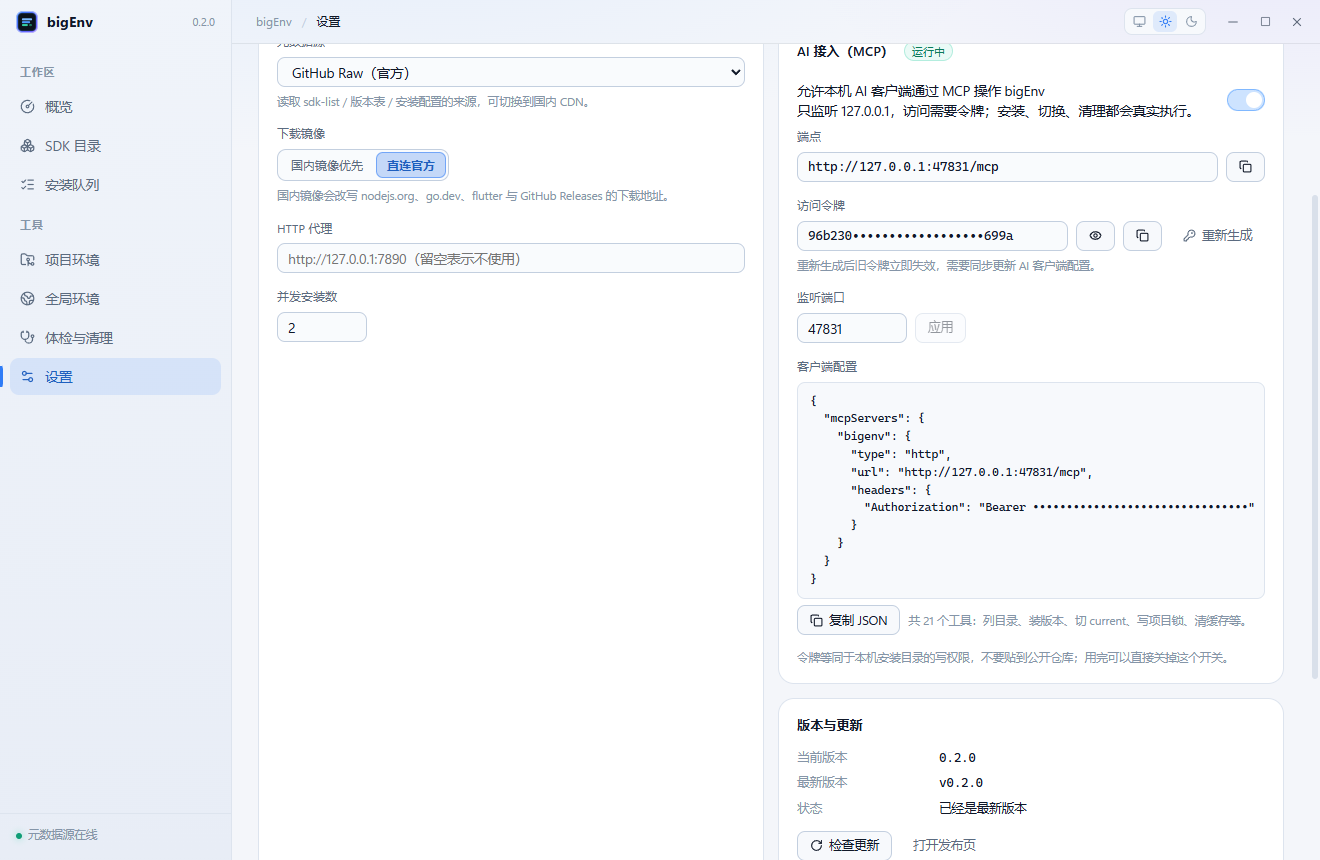
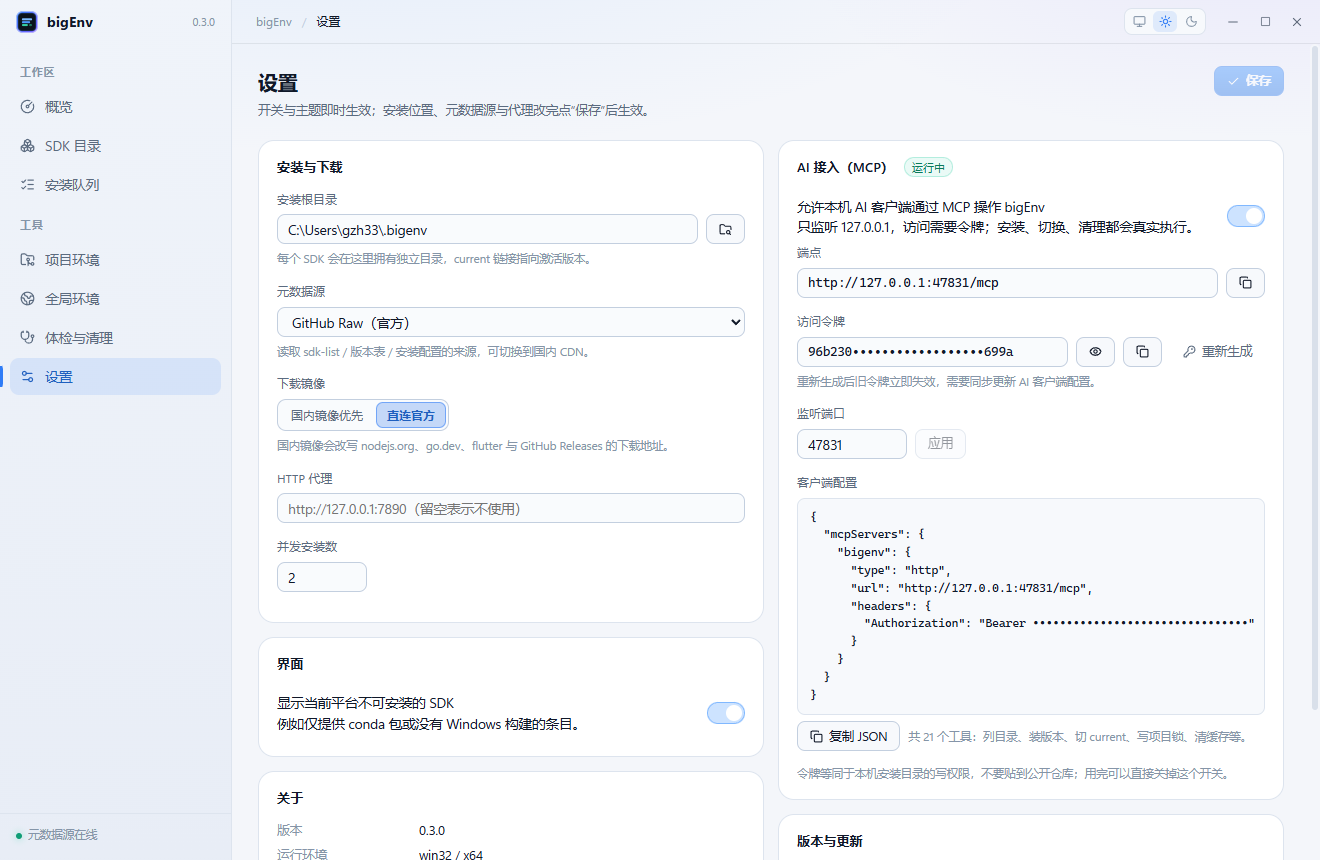
style: 设置页改为两列独立堆叠，卡片按内容高度排布，消除左侧空白

diff --git a/src/renderer/pages/Settings.tsx b/src/renderer/pages/Settings.tsx
@@ -110,10 +110,11 @@ export function Settings(): JSX.Element {
         </div>
       </div>
 
-      <div className="grid c2">
-        <div className="card">
-          <div className="card-head">
-            <h2>安装与下载</h2>
+      <div className="settings-grid">
+        <div className="settings-col">
+          <div className="card">
+            <div className="card-head">
+              <h2>安装与下载</h2>
           </div>
           <div className="field">
             <label>安装根目录</label>
@@ -172,10 +173,9 @@ export function Settings(): JSX.Element {
               onChange={(event) => patch({ concurrency: Number(event.target.value) || 1 })}
             />
           </div>
-        </div>
+          </div>
 
-        <div>
-          <div className="card" style={{ marginBottom: 14 }}>
+          <div className="card">
             <div className="card-head">
               <h2>界面</h2>
             </div>
@@ -194,7 +194,31 @@ export function Settings(): JSX.Element {
             </div>
           </div>
 
-          <div className="card" style={{ marginBottom: 14 }}>
+          <div className="card">
+            <div className="card-head">
+              <h2>关于</h2>
+            </div>
+            <dl className="kv">
+              <dt>版本</dt>
+              <dd>{bridge.runtime.version}</dd>
+              <dt>运行环境</dt>
+              <dd>
+                {bridge.runtime.platform} / {bridge.runtime.arch}
+              </dd>
+              <dt>Electron</dt>
+              <dd>{bridge.runtime.electron || '—'}</dd>
+              <dt>数据目录</dt>
+              <dd className="mono" style={{ fontSize: 11.5 }}>{bridge.runtime.dataRoot || '—'}</dd>
+            </dl>
+            <div className="divider" />
+            <div className="hint-text">
+              版本元数据来自 vsources（gvcgo/vsources）；安装布局用 <code>&lt;sdk&gt;/&lt;version&gt;</code> 加 <code>current</code> 链接，不复用 vmr 的 Lua 插件运行时。
+            </div>
+          </div>
+        </div>
+
+        <div className="settings-col">
+          <div className="card">
             <div className="card-head">
               <h2>AI 接入（MCP）</h2>
               <span className={`tag ${mcp?.running ? 'green' : mcp?.enabled ? 'amber' : ''}`}>
@@ -284,7 +308,7 @@ export function Settings(): JSX.Element {
             ) : null}
           </div>
 
-          <div className="card" style={{ marginBottom: 14 }}>
+          <div className="card">
             <div className="card-head">
               <h2>版本与更新</h2>
             </div>
@@ -329,28 +353,6 @@ export function Settings(): JSX.Element {
               </div>
             )}
             {update?.available ? <div className="hint-text" style={{ marginTop: 8 }}>下载完成后会直接打开安装包；当前版本没有代码签名，Windows 可能提示 SmartScreen。</div> : null}
-          </div>
-
-          <div className="card">
-            <div className="card-head">
-              <h2>关于</h2>
-            </div>
-            <dl className="kv">
-              <dt>版本</dt>
-              <dd>{bridge.runtime.version}</dd>
-              <dt>运行环境</dt>
-              <dd>
-                {bridge.runtime.platform} / {bridge.runtime.arch}
-              </dd>
-              <dt>Electron</dt>
-              <dd>{bridge.runtime.electron || '—'}</dd>
-              <dt>数据目录</dt>
-              <dd className="mono" style={{ fontSize: 11.5 }}>{bridge.runtime.dataRoot || '—'}</dd>
-            </dl>
-            <div className="divider" />
-            <div className="hint-text">
-              版本元数据来自 vsources（gvcgo/vsources），安装布局与 vmr 兼容；本项目为独立实现，不复用其 Lua 插件运行时。
-            </div>
           </div>
         </div>
       </div>

diff --git a/src/renderer/styles.css b/src/renderer/styles.css
@@ -333,6 +333,27 @@ code,
   grid-template-columns: repeat(2, minmax(0, 1fr));
 }
 
+/* 设置页：两列独立堆叠，卡片按内容高度排布，避免一侧被拉出大片空白 */
+.settings-grid {
+  display: grid;
+  grid-template-columns: repeat(2, minmax(0, 1fr));
+  gap: 14px;
+  align-items: start;
+}
+
+.settings-col {
+  display: flex;
+  flex-direction: column;
+  gap: 14px;
+  min-width: 0;
+}
+
+@media (max-width: 1120px) {
+  .settings-grid {
+    grid-template-columns: minmax(0, 1fr);
+  }
+}
+
 .grid.c3 {
   grid-template-columns: repeat(3, minmax(0, 1fr));
 }
